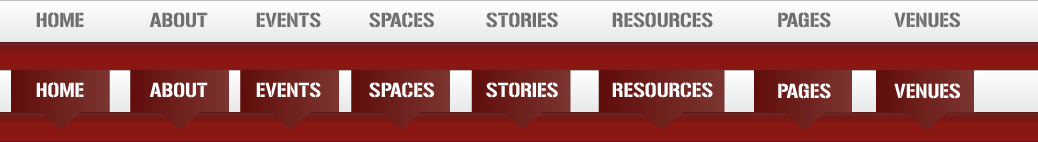
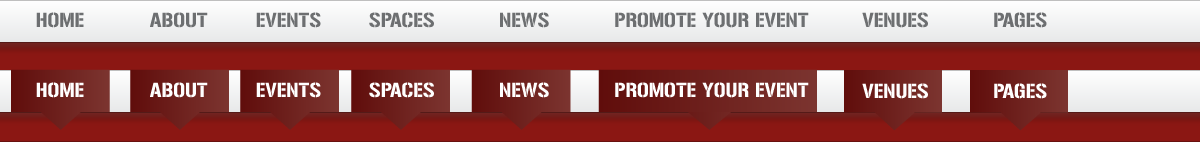
Updated menus at the top for nav

diff --git a/public/stylesheets/master.css b/public/stylesheets/master.css
@@ -179,13 +179,14 @@ p.post_code_error{
 /* resources are the only menu icons wide enough to need a different size */
 .nav li.resources{
   background-position:-595px 1px;
-  width:105px;
+  width:245px;
   float:right;
   position:relative;
+  margin-right:0px;
 }
 .nav li.resources a{
   background-position:-595px 1px;
-  width:145px;
+  width:245px;
 }
 .nav li.about, .nav li.about a{
   background-position:-130px 1px;
